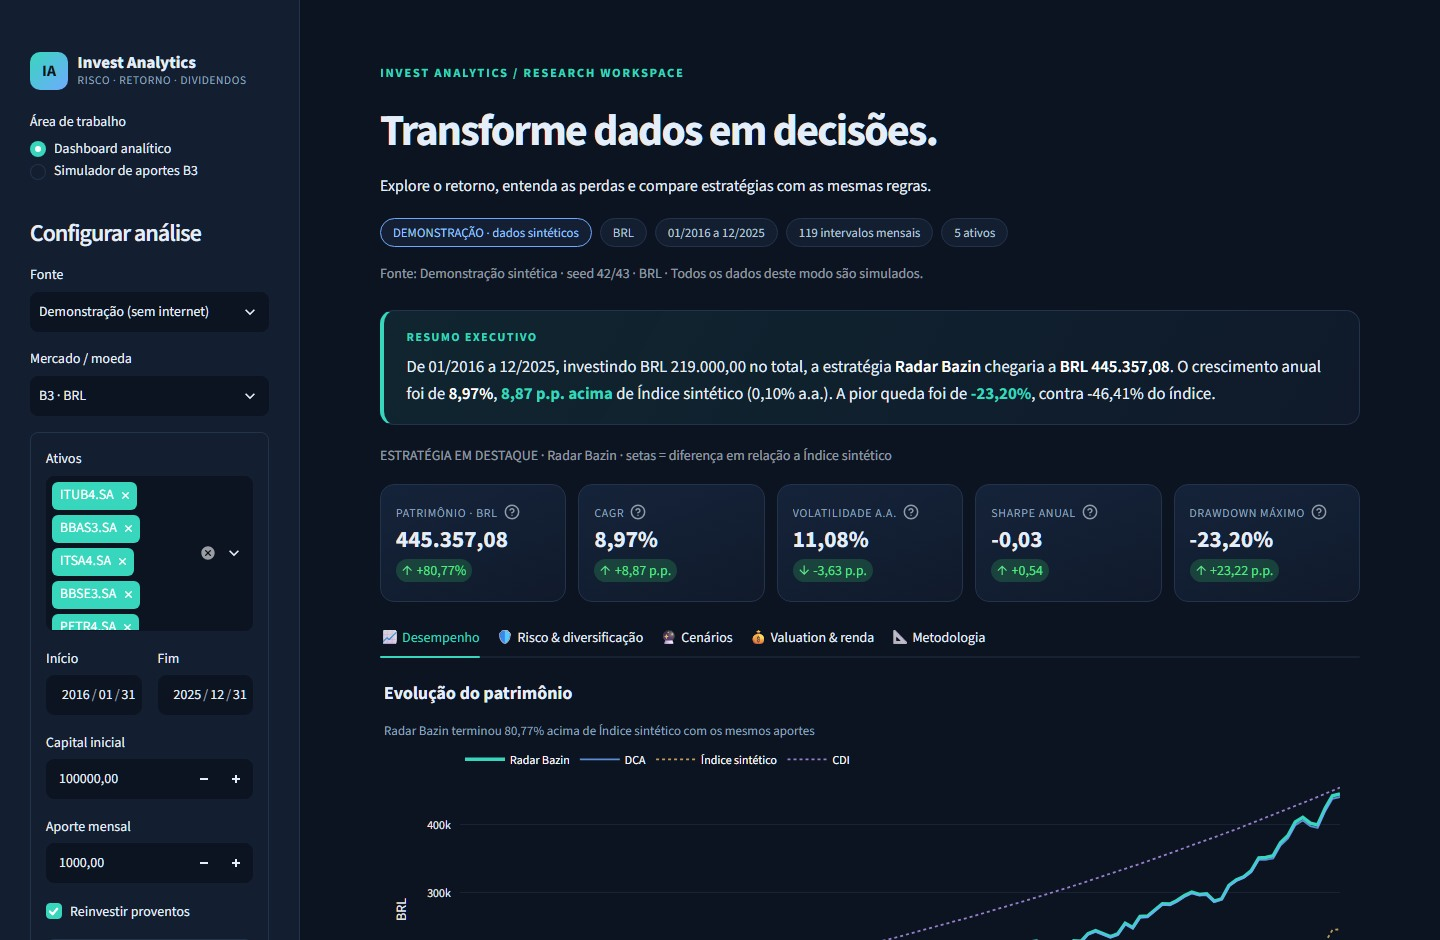
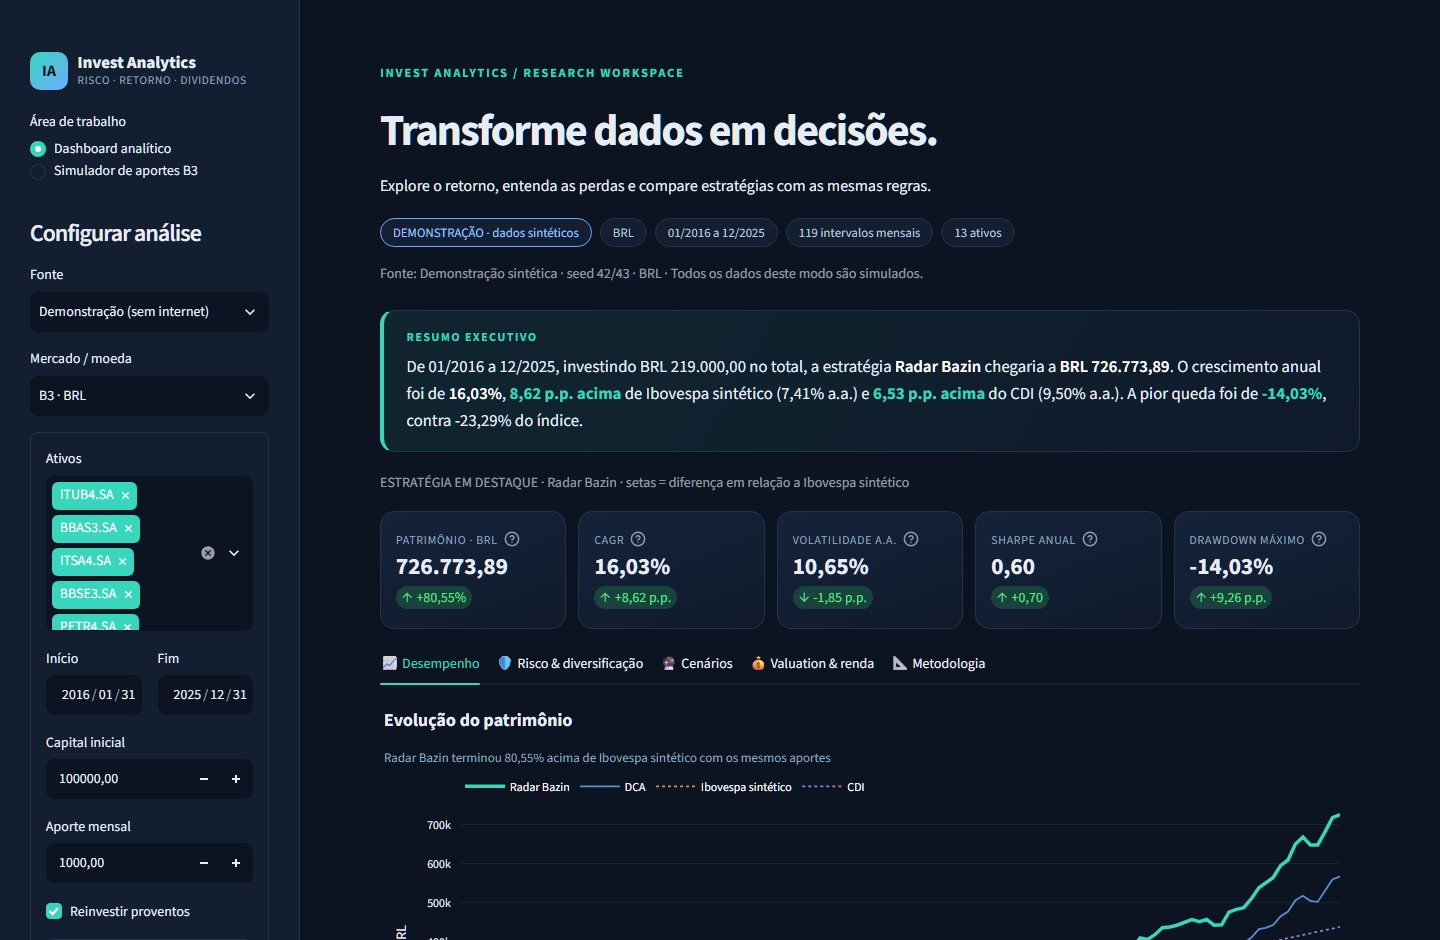
feat(data): calibrate synthetic indices, use VOO benchmark in USD and expand default portfolios

diff --git a/data/demo.py b/data/demo.py
@@ -6,7 +6,27 @@ import pandas as pd
 from core.bazin import B3_WEIGHTS
 from data.models import DataError, MarketData
 
-US_TICKERS = ("KO", "JNJ", "PG", "SPY", "QQQ", "O", "JEPQ")
+US_TICKERS = (
+    "O",
+    "CVX",
+    "ED",
+    "ADM",
+    "XOM",
+    "JNJ",
+    "PEP",
+    "KO",
+    "PG",
+    "ABT",
+    "TGT",
+    "LOW",
+    "CL",
+    "GWW",
+    "EMR",
+    "VOO",
+    "SPY",
+    "QQQ",
+    "JEPQ",
+)
 
 
 class DemoProvider:
@@ -19,13 +39,16 @@ class DemoProvider:
             raise DataError("Ticker indisponível na demonstração.")
         index = pd.date_range("2010-01-31", "2025-12-31", freq="ME")
         rng = np.random.default_rng(42 if market == "B3" else 43)
-        common = rng.normal(0.006, 0.04, len(index))
-        common[120:123] -= 0.12
+        common = rng.normal(0.0065, 0.036, len(index))
+        common[120:123] -= 0.075
         prices, dividends, adjusted = {}, {}, {}
         for i, ticker in enumerate(universe):
-            r = np.clip(common * (0.6 + i / 25) + rng.normal(0.001, 0.025, len(index)), -0.65, 0.65)
-            quotes = (20 + i * 5) * np.cumprod(1 + r)
-            payments = np.where(index.month.isin([3, 6, 9, 12]), np.roll(quotes, 1) * 0.018, 0)
+            overvalued = market == "B3" and i in (3, 7, 9, 11)
+            drift = (0.0005 if overvalued else 0.0028) if market == "B3" else 0.0038
+            r = np.clip(common * (0.7 + (i % 6) / 25) + rng.normal(drift, 0.022, len(index)), -0.65, 0.65)
+            quotes = (20 + i * 4) * np.cumprod(1 + r)
+            q_yield = (0.011 if overvalued else 0.028 - (i % 3) * 0.003) if market == "B3" else 0.011
+            payments = np.where(index.month.isin([3, 6, 9, 12]), np.roll(quotes, 1) * q_yield, 0)
             payments[0] = 0
             total = (quotes[1:] + payments[1:]) / quotes[:-1]
             prices[ticker], dividends[ticker] = quotes, payments
@@ -33,8 +56,9 @@ class DemoProvider:
         frame = pd.DataFrame(prices, index=index).loc[start:end, list(tickers)]
         if len(frame) < 3:
             raise DataError("Demonstração disponível entre janeiro/2010 e dezembro/2025.")
-        benchmark = pd.Series(100 * np.cumprod(1 + common), index=index).loc[frame.index]
-        cash = (1.10 ** (1 / 12) - 1) if market == "B3" else 0.0
+        bench_drift = 0.0038 if market == "B3" else 0.0052
+        benchmark = pd.Series(100 * np.cumprod(1 + common + bench_drift), index=index).loc[frame.index]
+        cash = (1.095 ** (1 / 12) - 1) if market == "B3" else 0.0
         return MarketData(
             prices=frame,
             adjusted_prices=pd.DataFrame(adjusted, index=index).loc[frame.index, list(tickers)],
@@ -43,6 +67,6 @@ class DemoProvider:
             cash_returns=pd.Series(cash, index=frame.index),
             currency="BRL" if market == "B3" else "USD",
             source="Demonstração sintética · seed 42/43",
-            benchmark_name="Índice sintético",
+            benchmark_name="Ibovespa sintético" if market == "B3" else "VOO sintético",
             notes=("Todos os dados deste modo são simulados.",),
         )

diff --git a/tests/test_app.py b/tests/test_app.py
@@ -15,13 +15,29 @@ def test_default_dashboard_and_empty_portfolio() -> None:
     assert not app.exception
     assert len(app.tabs) == 5
     assert len(app.metric) >= 5
+    assert len(app.multiselect("tickers").value) == 13
     assert any("Resumo executivo" in md.value for md in app.markdown)
+    assert any("Ibovespa sintético" in md.value and "CDI" in md.value for md in app.markdown)
     assert any(m.delta is not None for m in app.metric[:5])
     assert len(app.get("plotly_chart")) >= 6
     app.multiselect("tickers").set_value([])
     app.button[0].click().run()
     assert not app.exception
     assert any("ao menos um ativo" in message.value for message in app.warning)
+
+
+def test_us_market_and_zero_capital() -> None:
+    app = AppTest.from_file(str(APP), default_timeout=30).run()
+    app.selectbox("market").set_value("EUA · USD").run()
+    assert not app.exception
+    assert len(app.multiselect("tickers").value) == 10
+    assert any("VOO sintético" in md.value for md in app.markdown)
+    assert any("USD" in message.value for message in app.caption)
+    app.number_input("capital").set_value(0)
+    app.number_input("contribution").set_value(0)
+    app.button[0].click().run()
+    assert not app.exception
+    assert any("maior que zero" in message.value for message in app.warning)
 
 
 def test_presentation_preset_restores_defaults() -> None:
@@ -31,19 +47,8 @@ def test_presentation_preset_restores_defaults() -> None:
     preset_btn.click().run()
     assert not app.exception
     assert app.selectbox("market").value == "B3 · BRL"
+    assert len(app.multiselect("tickers").value) == 13
     assert len(app.metric) >= 5
-
-
-def test_us_market_and_zero_capital() -> None:
-    app = AppTest.from_file(str(APP), default_timeout=30).run()
-    app.selectbox("market").set_value("EUA · USD").run()
-    assert not app.exception
-    assert any("USD" in message.value for message in app.caption)
-    app.number_input("capital").set_value(0)
-    app.number_input("contribution").set_value(0)
-    app.button[0].click().run()
-    assert not app.exception
-    assert any("maior que zero" in message.value for message in app.warning)
 
 
 def test_live_failure_shows_error_without_synthetic_fallback() -> None:

diff --git a/ui/components.py b/ui/components.py
@@ -96,10 +96,20 @@ def executive_summary(
         if cagr is not None and ref_cagr is not None:
             gap = (cagr - ref_cagr) * 100
             css, verb = ("ia-up", "acima") if gap >= 0 else ("ia-down", "abaixo")
+            cdi_note = ""
+            if "CDI" in summary.index:
+                cdi_cagr = _value(cast(pd.Series, summary.loc["CDI"]), "cagr")
+                if cdi_cagr is not None:
+                    cdi_gap = (cagr - cdi_cagr) * 100
+                    cdi_css, cdi_verb = ("ia-up", "acima") if cdi_gap >= 0 else ("ia-down", "abaixo")
+                    cdi_note = (
+                        f' e <span class="{cdi_css}">{number(abs(cdi_gap))} p.p. {cdi_verb}</span> '
+                        f"do CDI ({number(cdi_cagr, True)} a.a.)"
+                    )
             parts.append(
                 f"O crescimento anual foi de <b>{number(cagr, True)}</b>, "
                 f'<span class="{css}">{number(abs(gap))} p.p. {verb}</span> de {escape(benchmark)} '
-                f"({number(ref_cagr, True)} a.a.)."
+                f"({number(ref_cagr, True)} a.a.){cdi_note}."
             )
         dd, ref_dd = _value(row, "max_drawdown"), _value(ref, "max_drawdown")
         if dd is not None and ref_dd is not None:
@@ -210,7 +220,7 @@ def methodology() -> None:
 - Sem reinvestimento, os proventos ficam numa reserva de caixa. Caixa rende CDI
   na B3 e 0% em USD. Impostos, custos, slippage e restrições de lote não são modelados.
 - O Ibovespa é um índice de retorno total. Comparações em BRL e USD são separadas.
-  O benchmark nos EUA é SPY com proventos incorporados.
+  O benchmark nos EUA é o ETF VOO com proventos incorporados.
 - O bootstrap sorteia meses independentes com reposição. Não prevê crises novas,
   dependência temporal ou mudanças de regime. As bandas são cenários empíricos.
 - A cesta atual aplicada ao passado tem viés de sobrevivência. O estudo não

diff --git a/ui/dashboard.py b/ui/dashboard.py
@@ -29,11 +29,12 @@ SIGNAL_COLORS = {
     "SEM DIVIDENDOS": "gray",
     "SEM PREÇO": "gray",
 }
+DEFAULT_US_TICKERS = ("O", "CVX", "ED", "ADM", "XOM", "JNJ", "PEP", "KO", "PG", "ABT")
 PRESENTATION: dict[str, object] = {
     "source": "Demonstração (sem internet)",
     "market": "B3 · BRL",
     "active_market": "B3",
-    "tickers": list(B3_WEIGHTS)[:5],
+    "tickers": list(B3_WEIGHTS),
     "start": date(2016, 1, 31),
     "end": date(2025, 12, 31),
     "capital": 100_000.0,
@@ -236,7 +237,7 @@ def render_dashboard() -> None:
     market_code = "B3" if market.startswith("B3") else "EUA"
     demo = source.startswith("Demonstração")
     universe = tuple(B3_WEIGHTS) if market_code == "B3" else US_TICKERS
-    default_assets = list(universe[:5])
+    default_assets = list(B3_WEIGHTS) if market_code == "B3" else list(DEFAULT_US_TICKERS)
     if st.session_state.get("active_market") != market_code:
         st.session_state["tickers"] = default_assets
         st.session_state["active_market"] = market_code

diff --git a/data/fetcher.py b/data/fetcher.py
@@ -120,7 +120,7 @@ class YahooBCBProvider:
         return CACHE.get_or_load(key, lambda: self._download(tickers, start, end, market))
 
     def _download(self, tickers: tuple[str, ...], start: str, end: str, market: str) -> MarketData:
-        benchmark_symbol = "^BVSP" if market == "B3" else "SPY"
+        benchmark_symbol = "^BVSP" if market == "B3" else "VOO"
         symbols = tuple(dict.fromkeys((*tickers, benchmark_symbol)))
         exclusive_end = (pd.Timestamp(end) + pd.Timedelta(days=1)).strftime("%Y-%m-%d")
 
@@ -188,7 +188,7 @@ class YahooBCBProvider:
             cash_returns=cash,
             currency="BRL" if market == "B3" else "USD",
             source="Yahoo Finance + BCB" if market == "B3" else "Yahoo Finance",
-            benchmark_name="Ibovespa" if market == "B3" else "SPY (retorno total)",
+            benchmark_name="Ibovespa" if market == "B3" else "VOO (retorno total)",
             notes=notes,
         )
 

diff --git a/tests/test_fetcher.py b/tests/test_fetcher.py
@@ -71,7 +71,7 @@ def test_cache_ttl_isolation_and_exception_policy() -> None:
 
 def test_provider_uses_explicit_adjustment_and_end_exclusive() -> None:
     dates = pd.date_range("2020-01-31", periods=4, freq="ME")
-    symbols = ("A", "SPY")
+    symbols = ("A", "VOO")
     columns = pd.MultiIndex.from_product([["Close", "Adj Close", "Dividends"], symbols])
     raw = pd.DataFrame([[10, 20, 10, 20, 0, 0]] * 4, index=dates, columns=columns)
     CACHE.clear()

diff --git a/README.md b/README.md
@@ -213,7 +213,7 @@ O Sharpe segue a definição baseada em retornos diferenciais discutida por [Wil
 
 **Dados e proventos.** `auto_adjust=False` é explícito no download. O backtest usa `Close` e dividendos separados; correlação e alocações usam `Adj Close`, sem somar proventos novamente. O adaptador assume a base de desdobramentos fornecida pelo Yahoo; não multiplica posições por splits novamente. A [documentação do yfinance](https://ranaroussi.github.io/yfinance/reference/api/yfinance.download.html) descreve os parâmetros e a data final exclusiva, convertida pelo adaptador a partir da data inclusiva da interface.
 
-**Referências.** O CDI diário SGS 12 é composto por mês. Falta de CDI não vira retorno zero. O [Ibovespa é um índice de retorno total em reais](https://www.b3.com.br/pt_br/market-data-e-indices/indices/indices-amplos/ibovespa.htm); seus dividendos não são adicionados novamente. Nos EUA, o benchmark é SPY ajustado e o Sharpe usa uma taxa anual efetiva USD informada pelo usuário; caixa USD rende 0% neste modelo.
+**Referências.** O CDI diário SGS 12 é composto por mês. Falta de CDI não vira retorno zero. O [Ibovespa é um índice de retorno total em reais](https://www.b3.com.br/pt_br/market-data-e-indices/indices/indices-amplos/ibovespa.htm); seus dividendos não são adicionados novamente. Nos EUA, o benchmark é o ETF VOO ajustado e o Sharpe usa uma taxa anual efetiva USD informada pelo usuário; caixa USD rende 0% neste modelo.
 
 ## Qualidade dos dados e limites
 
